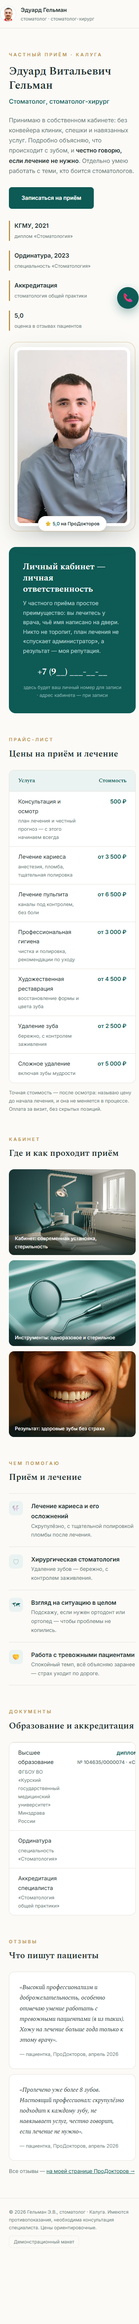
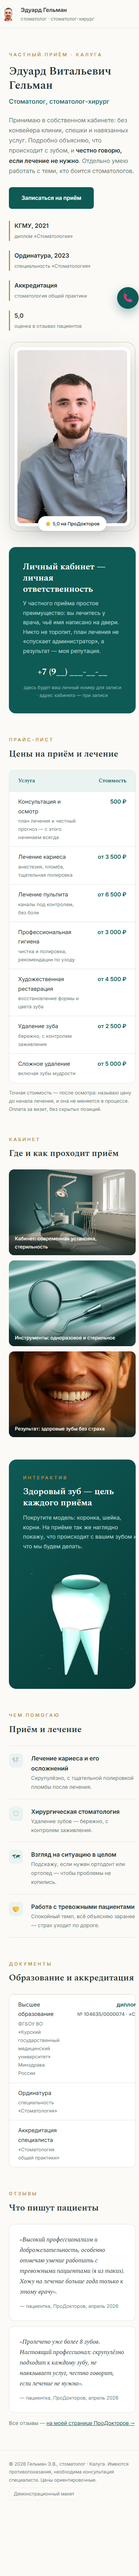
Гельман: 3D-зуб (Three.js, интерактивный) + блок образования с дипломом

diff --git a/demos/gelman/index.html b/demos/gelman/index.html
@@ -88,6 +88,13 @@ h2{font-size:clamp(24px,3.4vw,34px);font-weight:600;margin-bottom:28px}
 .gal figcaption{position:absolute;left:0;right:0;bottom:0;background:linear-gradient(transparent,rgba(14,32,30,.85));
   color:#fff;font-size:13px;font-weight:500;padding:26px 16px 12px}
 
+/* 3D зуб */
+.tooth3d{background:linear-gradient(135deg,#0E5A55,#083B37);border-radius:20px;padding:38px;
+  display:grid;grid-template-columns:1fr;gap:20px;align-items:center;color:#B7D3D1;overflow:hidden}
+@media(min-width:820px){.tooth3d{grid-template-columns:1.1fr .9fr}}
+.tooth3d p{font-size:15px;max-width:44ch}
+#toothCanvas{width:min(380px,80vw);height:min(380px,80vw);justify-self:center;cursor:grab;touch-action:none}
+
 /* чем помогаю */
 .helps{border-top:1px solid var(--hair)}
 .help{display:grid;grid-template-columns:44px 1fr;gap:16px;padding:20px 0;border-bottom:1px solid var(--hair)}
@@ -199,6 +206,20 @@ a:focus-visible,.btn:focus-visible{outline:3px solid var(--gold);outline-offset:
 
 <section style="padding-top:0">
   <div class="wrap">
+    <div class="tooth3d reveal" id="tooth3d-box">
+      <div class="t3d-txt">
+        <div class="k2" style="color:var(--gold)">Интерактив</div>
+        <h2 class="serif" style="color:#fff;margin-bottom:12px">Здоровый зуб — цель каждого приёма</h2>
+        <p>Покрутите модель: коронка, шейка, корни. На приёме так же наглядно покажу,
+        что происходит с вашим зубом и что мы будем делать.</p>
+      </div>
+      <canvas id="toothCanvas" width="420" height="420" aria-label="3D-модель зуба"></canvas>
+    </div>
+  </div>
+</section>
+
+<section style="padding-top:0">
+  <div class="wrap">
     <div class="k2 reveal">Чем помогаю</div>
     <h2 class="reveal">Приём и лечение</h2>
     <div class="helps reveal">
@@ -250,7 +271,69 @@ a:focus-visible,.btn:focus-visible{outline:3px solid var(--gold);outline-offset:
 
 <a class="fab" href="#contact" aria-label="Записаться">📞</a>
 
+<script src="https://unpkg.com/three@0.147.0/build/three.min.js"></script>
 <script>
+(function initTooth(){
+  const canvas = document.getElementById('toothCanvas');
+  if (!canvas || typeof THREE === 'undefined') { if (canvas) canvas.outerHTML = '<div style="font-size:120px;text-align:center">🦷</div>'; return; }
+  try {
+    const renderer = new THREE.WebGLRenderer({canvas, alpha: true, antialias: true});
+    renderer.setPixelRatio(Math.min(window.devicePixelRatio, 2));
+    renderer.setSize(canvas.clientWidth, canvas.clientHeight, false);
+    const scene = new THREE.Scene();
+    const cam = new THREE.PerspectiveCamera(38, 1, .1, 100);
+    cam.position.set(0, .25, 6.2);
+
+    scene.add(new THREE.HemisphereLight(0xffffff, 0x0E5A55, 1.1));
+    const key = new THREE.DirectionalLight(0xffffff, .9); key.position.set(3, 5, 4); scene.add(key);
+    const rim = new THREE.PointLight(0x7FE0D4, .8, 20); rim.position.set(-4, -2, 3); scene.add(rim);
+
+    const mat = new THREE.MeshPhysicalMaterial({color: 0xF7F4EC, roughness: .28, clearcoat: .8, clearcoatRoughness: .25});
+    const tooth = new THREE.Group();
+
+    // коронка: lathe по профилю
+    const prof = [];
+    const pts = [[0,1.75],[ .55,1.72],[ .95,1.5],[1.08,1.1],[1.02,.6],[ .85,.15],[ .72,-.2]];
+    pts.forEach(p => prof.push(new THREE.Vector2(p[0], p[1])));
+    const crown = new THREE.Mesh(new THREE.LatheGeometry(prof, 48), mat);
+    tooth.add(crown);
+    // жевательная поверхность: приплюснутая сфера с «фиссурой»
+    const top = new THREE.Mesh(new THREE.SphereGeometry(.56, 32, 24), mat);
+    top.scale.set(1.28, .42, 1.28); top.position.y = 1.6; tooth.add(top);
+    // два корня: изогнутые конусы
+    function root(x, tilt){
+      const r = new THREE.Mesh(new THREE.ConeGeometry(.42, 1.9, 24), mat);
+      r.position.set(x, -1.05, 0); r.rotation.z = Math.PI + tilt; return r;
+    }
+    tooth.add(root(-.45, -.16)); tooth.add(root(.45, .16));
+    tooth.position.y = -0.1;
+    scene.add(tooth);
+
+    // блёстки
+    const pg = new THREE.BufferGeometry(); const pp = [];
+    for (let i = 0; i < 60; i++) pp.push((Math.random()-.5)*8, (Math.random()-.5)*6, (Math.random()-.5)*4);
+    pg.setAttribute('position', new THREE.Float32BufferAttribute(pp, 3));
+    const stars = new THREE.Points(pg, new THREE.PointsMaterial({color: 0xBFE8E2, size: .05, transparent: true, opacity: .7}));
+    scene.add(stars);
+
+    let tx = 0, ty = 0, dragging = false, px = 0;
+    const onMove = (x, y, r) => { tx = ((x - r.left)/r.width - .5); ty = ((y - r.top)/r.height - .5); };
+    canvas.addEventListener('pointermove', e => onMove(e.clientX, e.clientY, canvas.getBoundingClientRect()));
+    canvas.addEventListener('pointerdown', e => { dragging = true; px = e.clientX; });
+    addEventListener('pointerup', () => dragging = false);
+    canvas.addEventListener('pointermove', e => { if (dragging) { tooth.rotation.y += (e.clientX - px) * .01; px = e.clientX; } });
+
+    const reduced = matchMedia('(prefers-reduced-motion: reduce)').matches;
+    (function loop(){
+      requestAnimationFrame(loop);
+      if (!dragging && !reduced) tooth.rotation.y += .006;
+      tooth.rotation.x += ((ty * .5) - tooth.rotation.x) * .05;
+      stars.rotation.y += .0008;
+      renderer.render(scene, cam);
+    })();
+  } catch(e) { canvas.outerHTML = '<div style="font-size:120px;text-align:center">🦷</div>'; }
+})();
+
 const els = document.querySelectorAll('.reveal');
 if ('IntersectionObserver' in window) {
   const io = new IntersectionObserver(es => es.forEach(e => {
